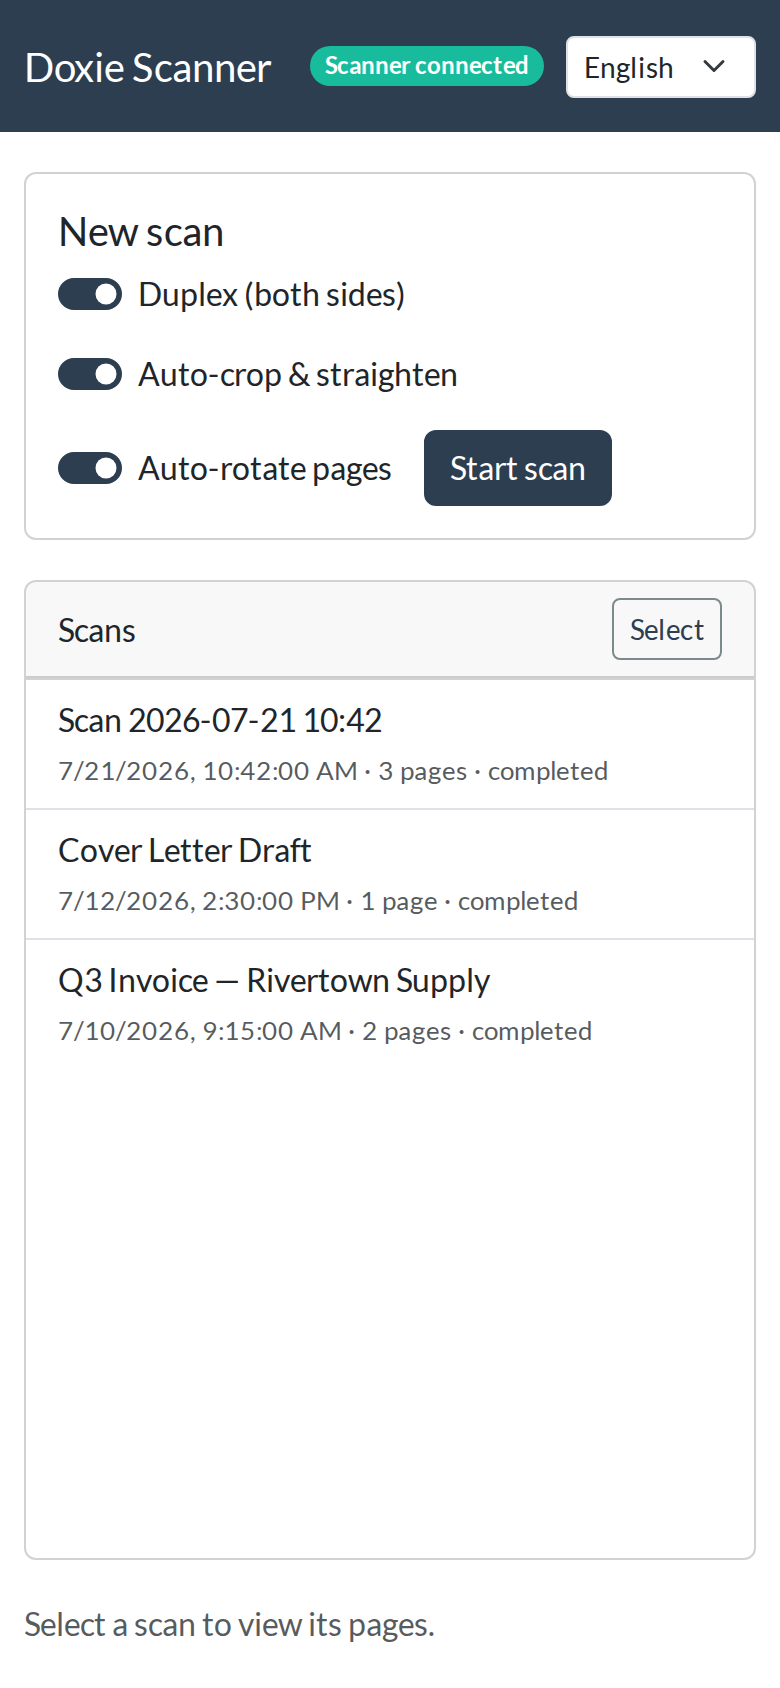
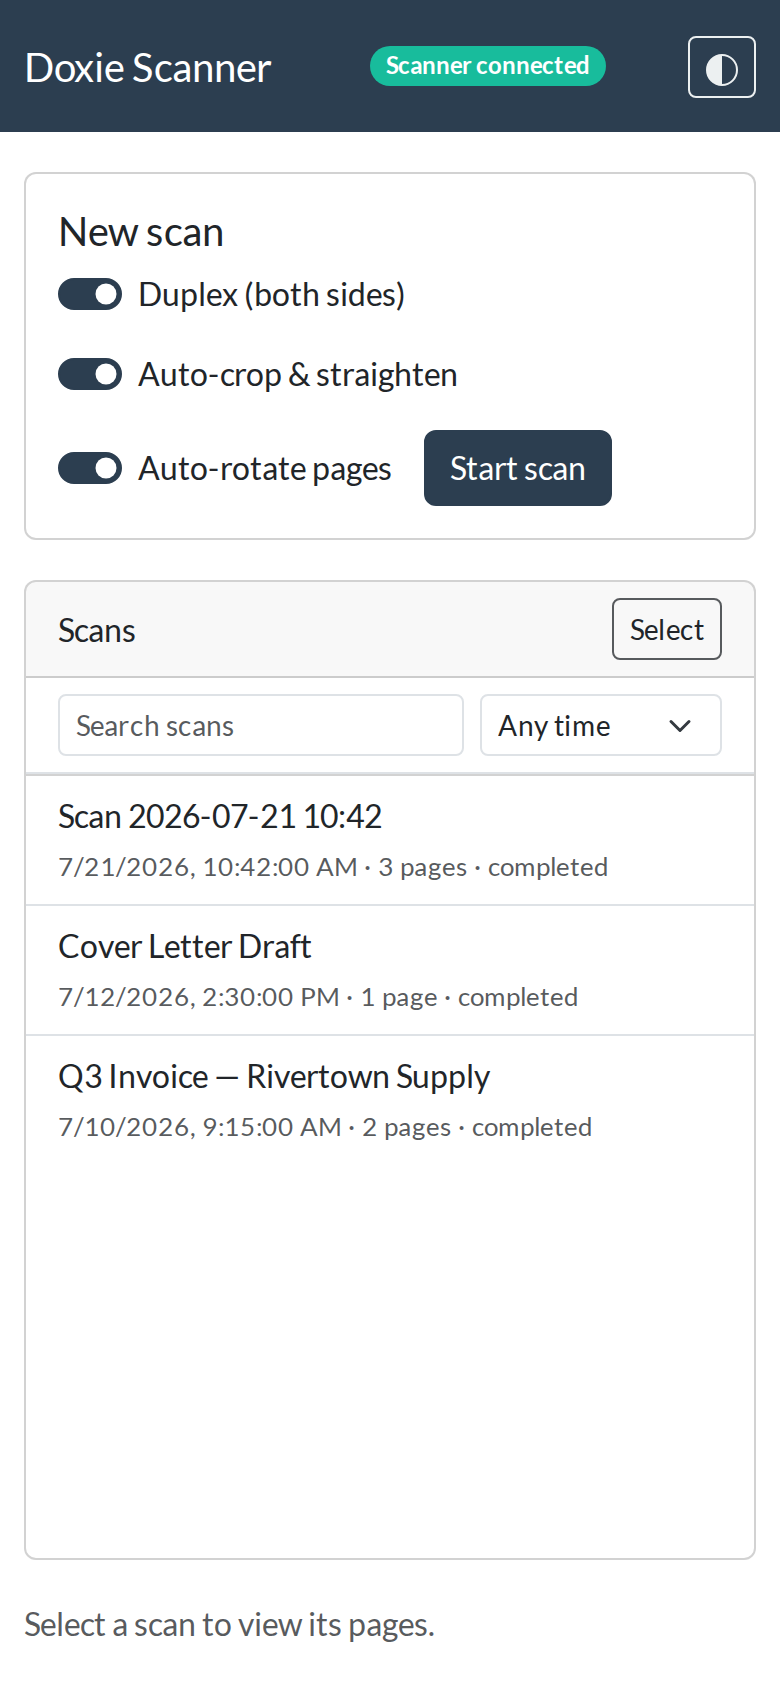
docs(doxie-scanner): refresh the demo and screenshots for the new interface
The top bar and the scan list changed (an appearance menu replaced the language
selector, a search and date filter sits above the list, the latest scan opens on
arrival), so the README's demo and screenshots no longer matched the app.

- Re-ran the whole recording: the five-clip demo and the screenshots pass as an
  integration test against the new interface unchanged, which also confirms the
  scan, reorder, export and Paperless flows still work end to end.
- Added a dark-mode phone screenshot (violet scheme) to the README so the
  themes are shown, and spread the four images across the row.

The demo GIF is 5.4 MB (was 4.8 MB), a little larger from the new filter row.

Changed region(s): [[0.0615, 0.3697, 0.9538, 0.6777], [0.4, 0.0, 0.9846, 0.0616], [0.6154, 0.6469, 0.7692, 0.6777]]

diff --git a/demo/screenshots.spec.js b/demo/screenshots.spec.js
@@ -60,6 +60,12 @@ test('phone', async ({ page }, info) => {
   await imagesLoaded(page);
   await shot(page, 'pages-phone');
 
+  // The same view in dark mode with another colour scheme (then back to the
+  // default look for the rest).
+  await page.evaluate(() => { window.DoxieTheme.setMode('dark'); window.DoxieTheme.setScheme('violet'); });
+  await shot(page, 'dark-phone');
+  await page.evaluate(() => { window.DoxieTheme.setMode('light'); window.DoxieTheme.setScheme('slate'); });
+
   await page.locator('#page-grid .page-thumbnail').nth(0).locator('.combine-check').tap();
   await page.locator('#page-grid .page-thumbnail').nth(1).locator('.combine-check').tap();
   await expect(page.locator('#combine-bar')).toBeVisible();

diff --git a/README.md b/README.md
@@ -22,9 +22,10 @@ the scanner through the USB device nodes under `/dev/bus/usb`.
 ![Doxie Scanner demo](demo/output/doxie-scanner-demo.gif)
 
 <p align="center">
-  <img src="docs/screenshots/selection-desktop.png" width="58%" alt="Desktop: a scan's pages, two ticked, with the export menu open">
-  <img src="docs/screenshots/pages-phone.png" width="19%" alt="Phone: a scan's pages, trimmed and upright">
-  <img src="docs/screenshots/selection-phone.png" width="19%" alt="Phone: two pages ticked, with the export menu open">
+  <img src="docs/screenshots/selection-desktop.png" width="49%" alt="Desktop: a scan's pages, two ticked, with the export menu open">
+  <img src="docs/screenshots/pages-phone.png" width="16%" alt="Phone: a scan's pages, trimmed and upright">
+  <img src="docs/screenshots/dark-phone.png" width="16%" alt="Phone: the same scan in dark mode with the violet colour scheme">
+  <img src="docs/screenshots/selection-phone.png" width="16%" alt="Phone: two pages ticked, with the export menu open">
 </p>
 
 ## How this was built
